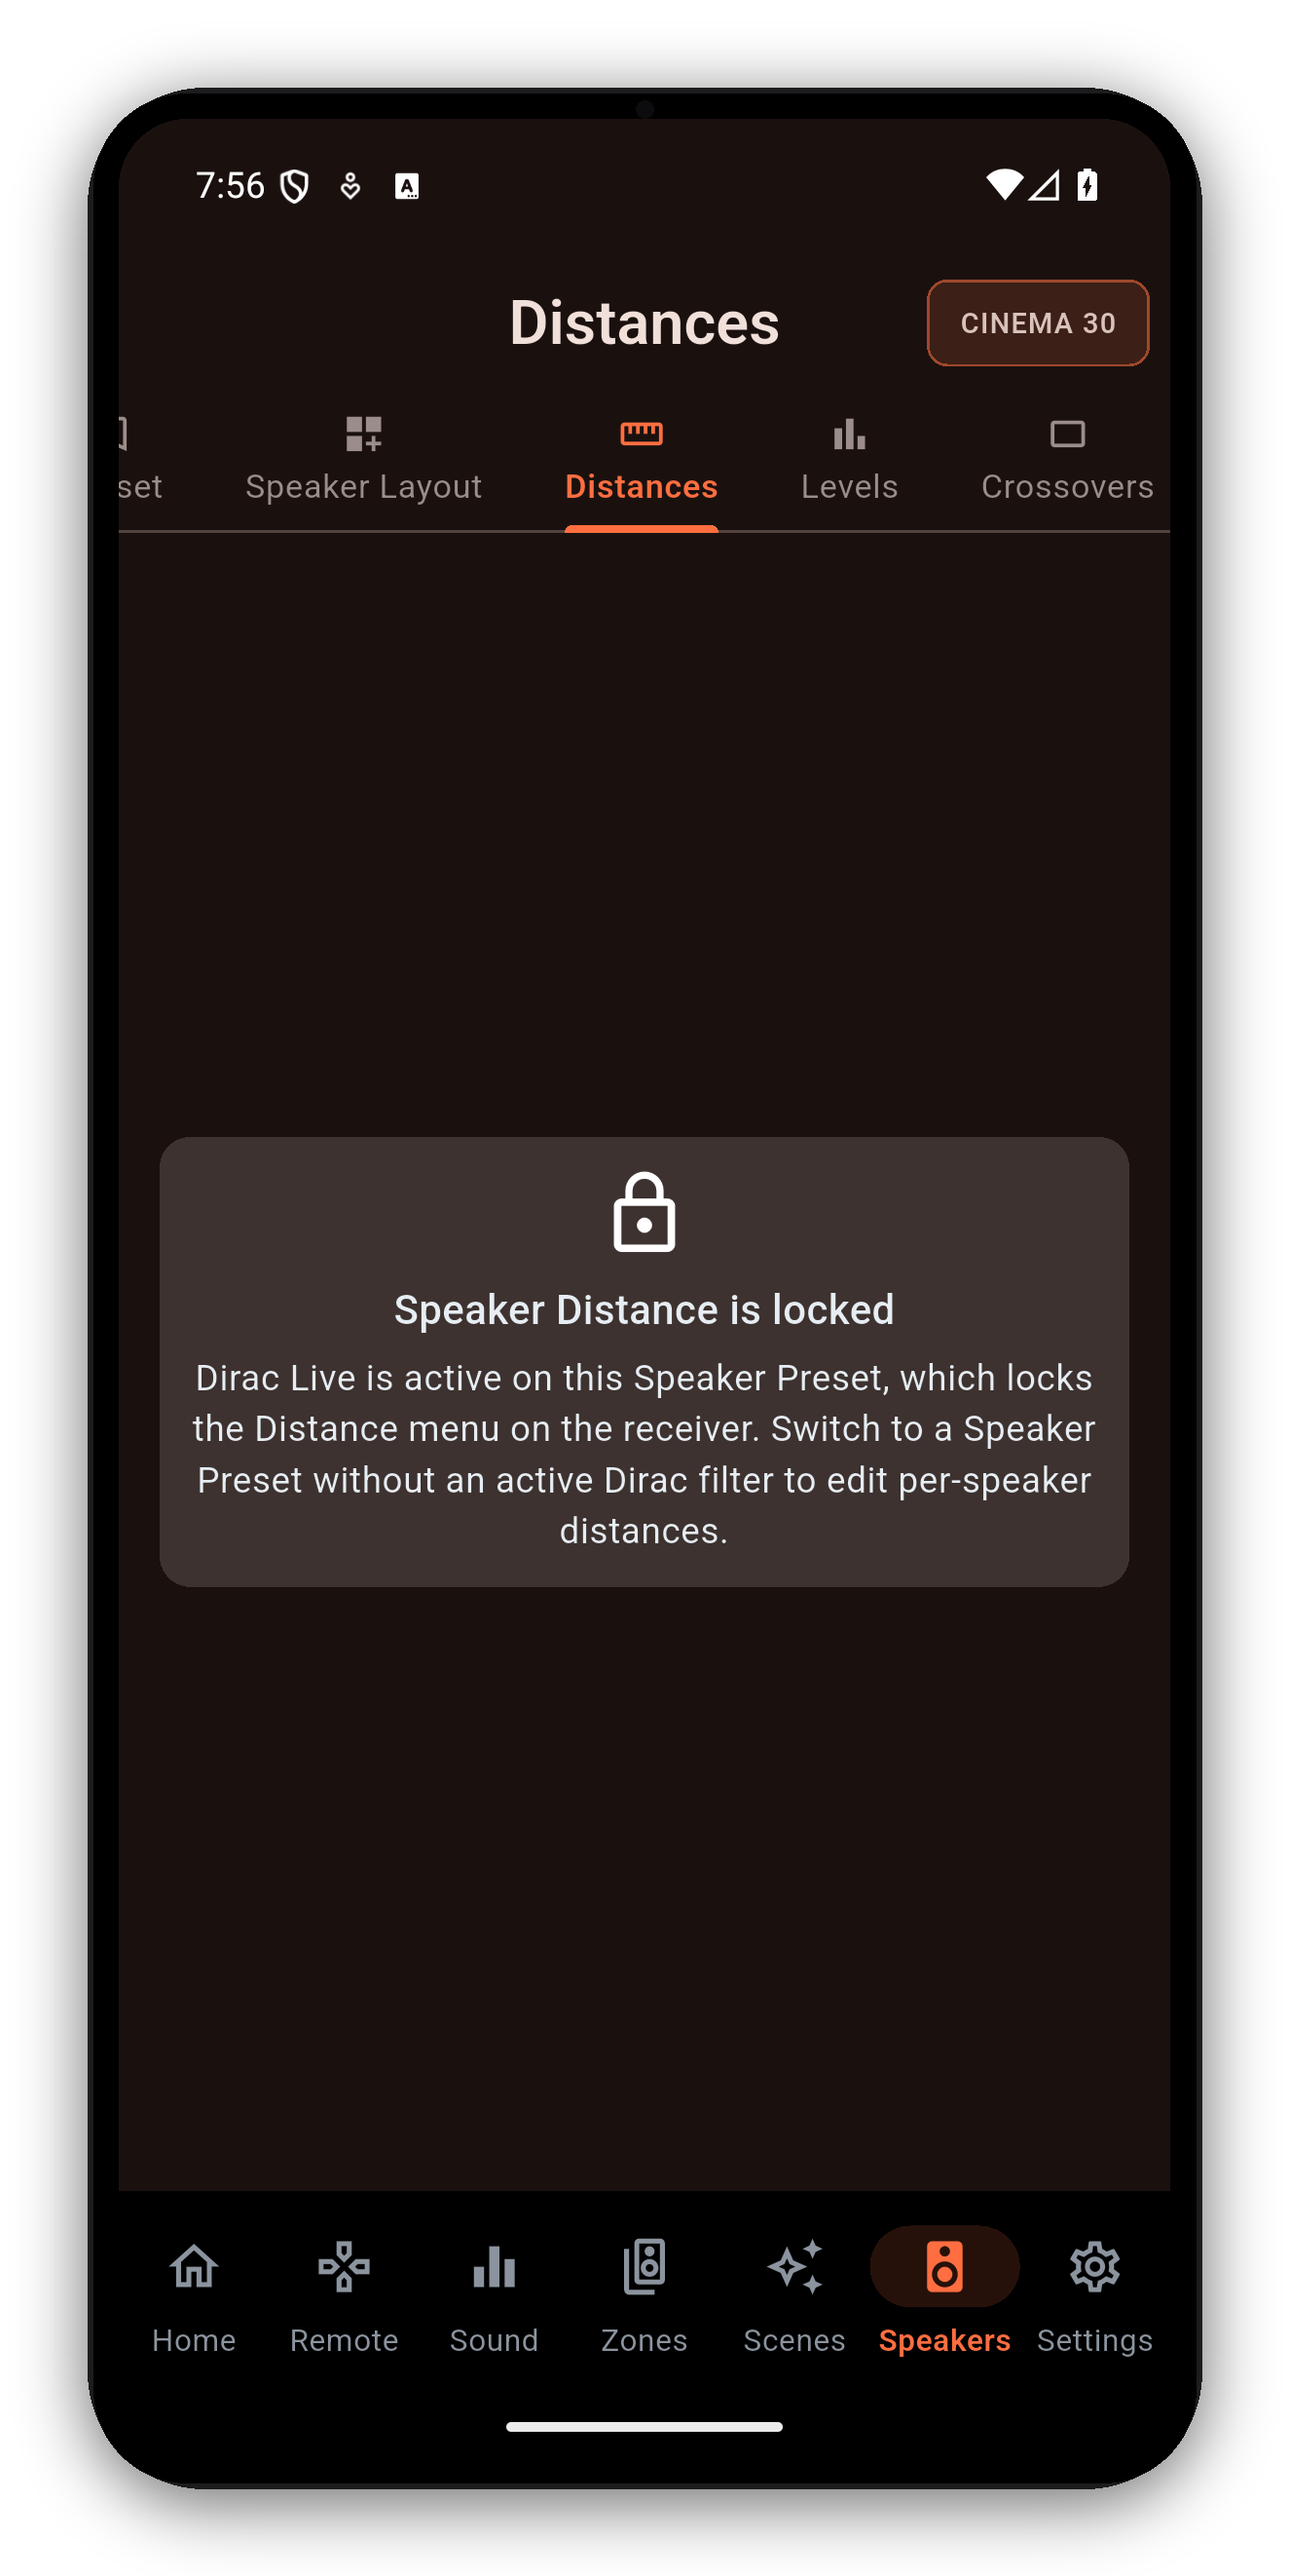
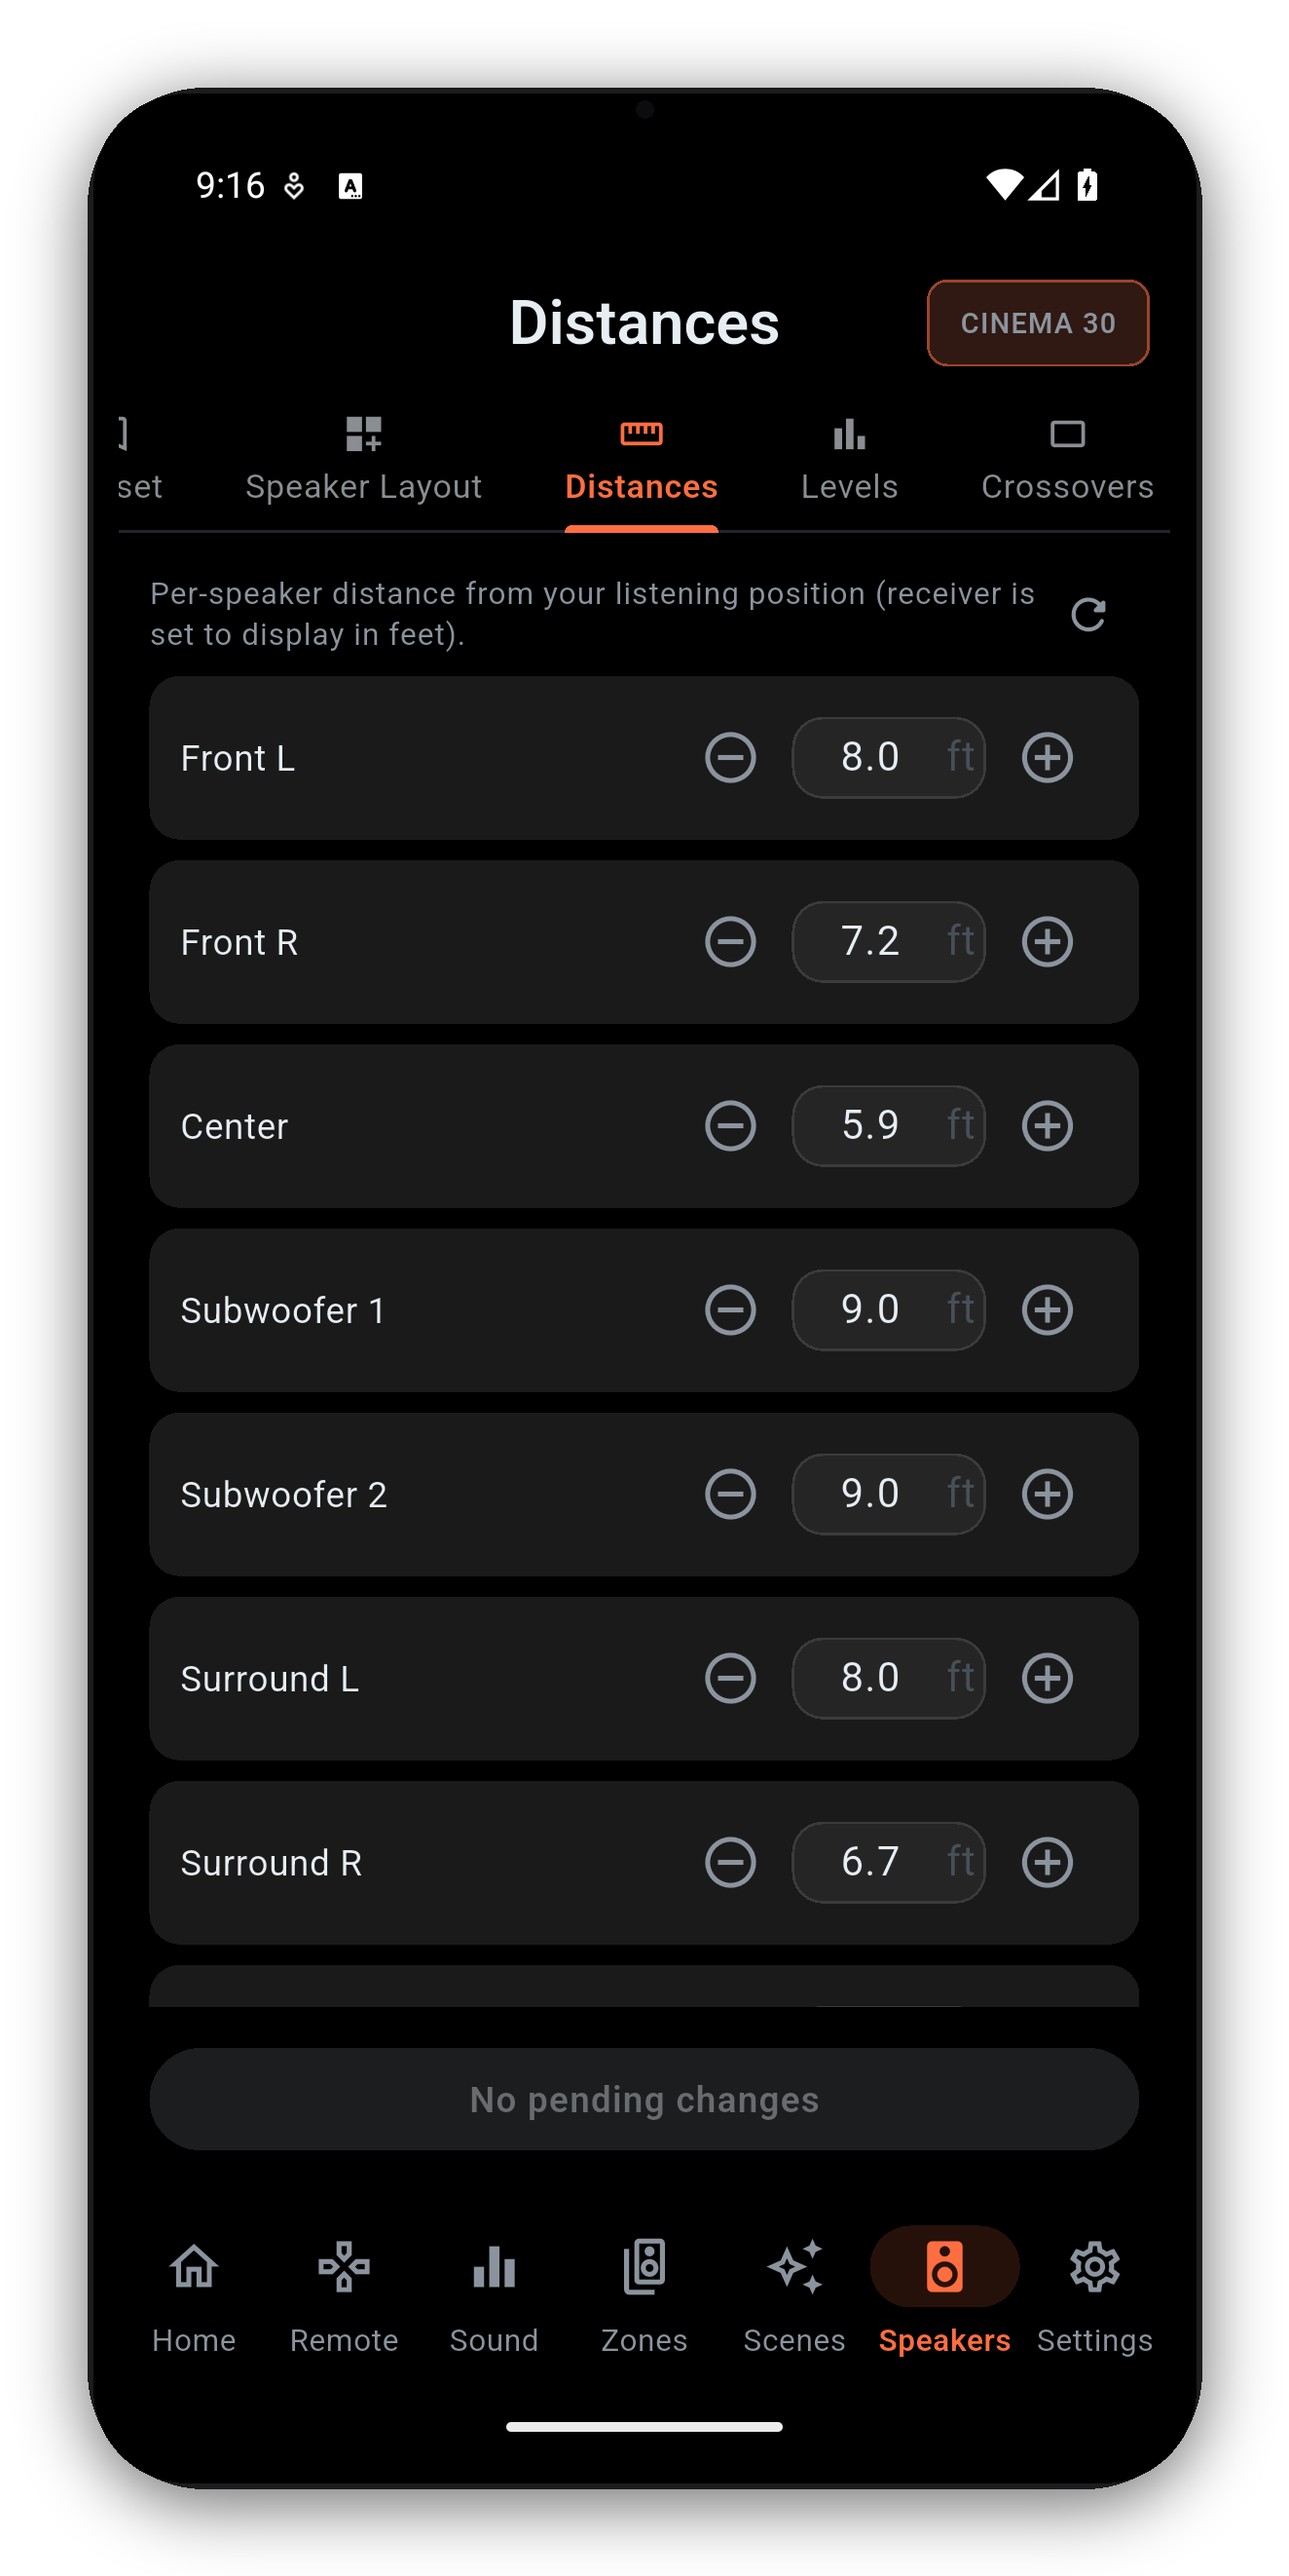
docs: editable Speakers shots (SPP1) + locked example, Zone 2 powered on
Per review:
- Re-shot Speaker Layout / Distances / Levels on a non-Dirac Speaker Preset
  so they show the EDITABLE state (was all Dirac-locked before).
- Kept one Dirac-locked shot (speakers-layout-locked) and placed it beside
  the Dirac note so users see both the editable and locked states.
- Powered Zone 2 ON and re-shot Zones so the card shows a live zone
  (volume, input grid, balance, quick volume).

Note: Radio/tuner tab can't be captured on this C30 - TUNER isn't enabled
as a main-zone source on the receiver, so the app correctly gates the Radio
tab out (it's not even in Customize Navigation). Documented in text instead.

diff --git a/docs/index.html b/docs/index.html
@@ -116,6 +116,9 @@
 
   .note{background:var(--card);border:1px solid var(--line);border-left:3px solid var(--accent);
     border-radius:12px;padding:16px 18px;color:var(--mut);margin-top:18px;font-size:.94rem}
+  .lockrow{display:grid;grid-template-columns:1fr 210px;gap:28px;align-items:center;margin-top:22px}
+  .lockrow img{width:210px;filter:drop-shadow(0 16px 30px rgba(0,0,0,.45))}
+  @media(max-width:760px){.lockrow{grid-template-columns:1fr}.lockrow img{width:200px;margin:4px auto 0}}
   details{background:var(--card);border:1px solid var(--line);border-radius:12px;margin-bottom:10px;overflow:hidden}
   details summary{cursor:pointer;padding:15px 18px;font-weight:650;color:var(--txt);list-style:none}
   details summary::-webkit-details-marker{display:none}
@@ -271,7 +274,10 @@
       <figure><img alt="Levels" src="screenshots/speakers-levels.png" /><figcaption>Levels</figcaption></figure>
       <figure><img alt="Speaker Presets" src="screenshots/speakers-preset.png" /><figcaption>Speaker Presets</figcaption></figure>
     </div>
-    <div class="note">Smart about Dirac: when a Dirac Live filter is active on a Speaker Preset, the app respects the receiver's lock instead of letting you push changes it would reject - and tells you exactly why.</div>
+    <div class="lockrow">
+      <div class="note" style="margin:0">Smart about Dirac: the screens above are fully editable on a standard Speaker Preset. But when a <b>Dirac Live filter is active</b> on a preset, Dirac owns the layout, distances and crossovers - so instead of letting you push changes the receiver would silently reject, the app shows a clear lock and tells you exactly why (right). Switch to a non-Dirac preset to edit them.</div>
+      <img alt="A Dirac-locked speaker screen" src="screenshots/speakers-layout-locked.png" />
+    </div>
   </div>
 </section>
 
